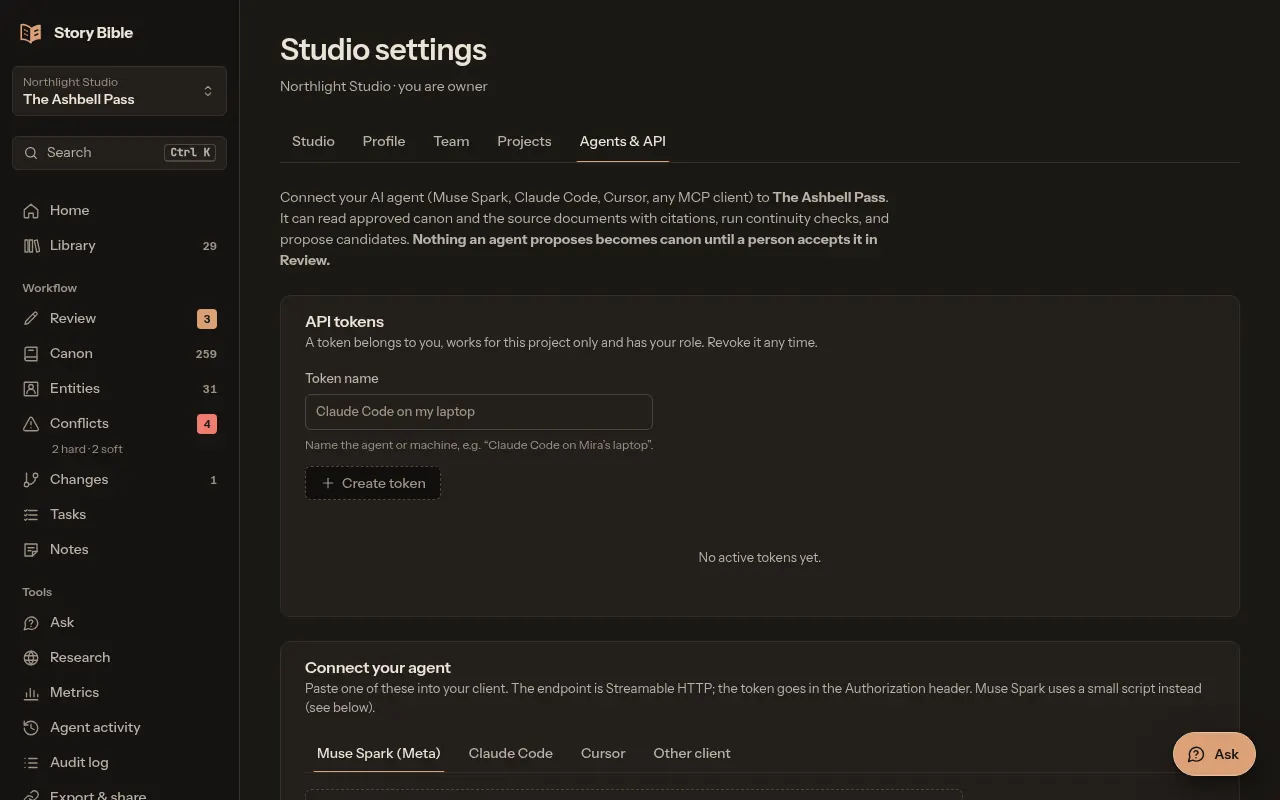
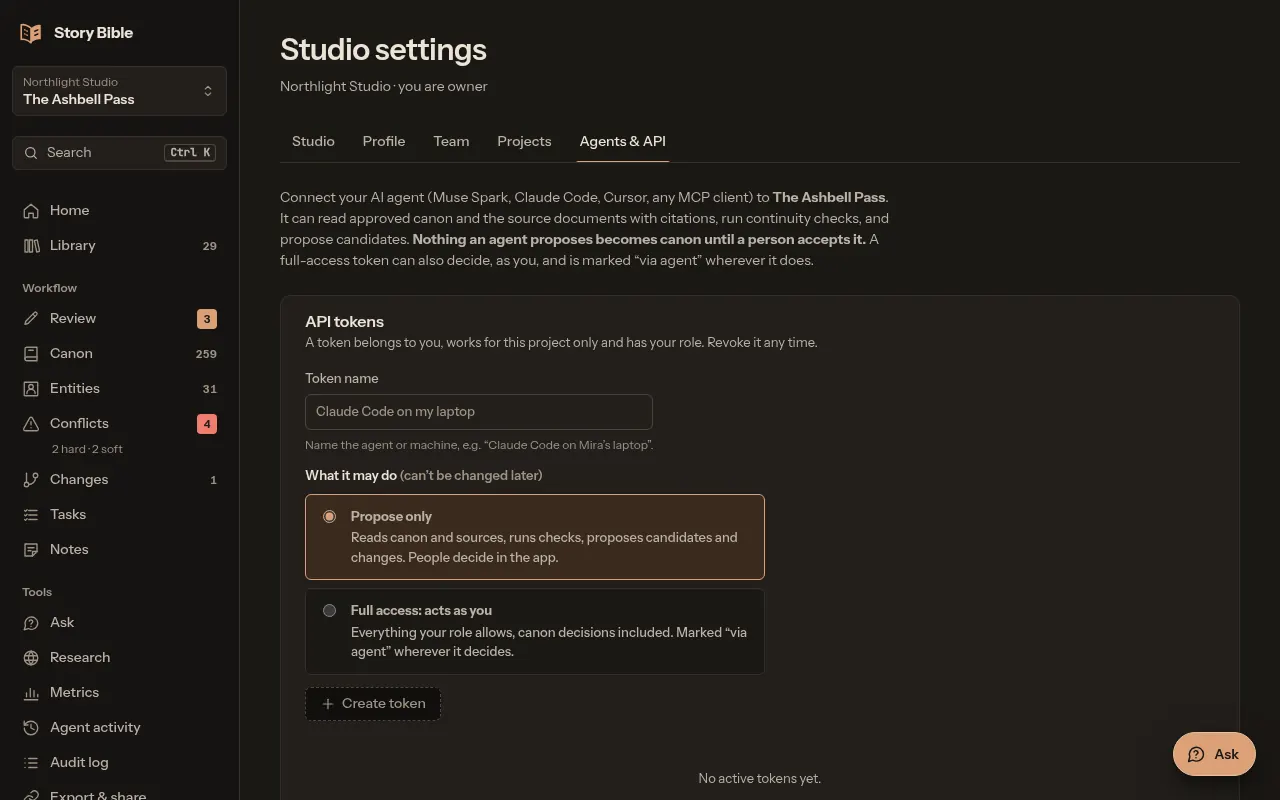
Marketing MCP claims match c68: 38 tools, propose/full token levels, "via agent", what agents can't do
- /agents: 38 tools (16 canon and document tools + 22 area tools with read/propose and full-access actions,
  matching server/utils/mcp-tools.ts and mcp-panel.ts), the two token levels, "via MCP" audit, the exclusions
  (accounts, tokens, team changes and invite links, invite accept, sample load, audio, binary downloads, OAuth)
- Home, games use case and security: propose vs full access, decisions marked "via agent"
- Changelog: 3 Nov MCP parity and AGPL entries; the 2 Nov MCP entry says what it shipped then
- Agents & API screenshot re-taken with the level choice

Claude-Session: https://claude.ai/code/session_018FT5nowQ6S8AfgwKZvpJeF

diff --git a/app/pages/agents/index.vue b/app/pages/agents/index.vue
@@ -13,7 +13,7 @@ const MAY = [
   'Draw portraits and covers when you ask',
 ]
 const NEVER = [
-  'Accept, reject or edit a fact: only a person can',
+  'Accept, reject or edit a fact: a person does, in the app or through their own full-access agent (marked “via agent”)',
   'Make a fact canon without a quote found in its source',
   'Edit an imported document or a transcript',
   'Invent a source, a quote or a canon id; findings that cite one are dropped',
@@ -36,7 +36,40 @@ const TOOLS = [
   ['sb_get_impact', 'The impact of a change proposal'],
   ['sb_list_recheck', 'Citations to re-check after a new version'],
   ['sb_list_tasks', 'Re-review tasks'],
-  ['sb_propose_candidate', 'The only write: a pending candidate with a verbatim quote, for Review'],
+  ['sb_propose_candidate', 'A pending candidate with a verbatim quote, for Review (editors and up)'],
+]
+// One tool per area of the app, with an action; each action has a level (server/utils/mcp-panel.ts).
+const PANEL: [string, string, string, string][] = [
+  ['sb_review', 'Review queue', 'list · add to review · critic', 'add to canon · accept · edit_accept · reject · accept_verified'],
+  ['sb_recheck', 'Citations after a new version', '', 'confirm · keep'],
+  ['sb_change', 'Change proposals and impact', 'list · export · propose · analyze', 'decide · revert'],
+  ['sb_conflict', 'Possible conflicts', 'scan', 'decide · severity'],
+  ['sb_task', 'Re-review tasks', '', 'update'],
+  ['sb_entity', 'Wiki pages', 'merge preview', 'create · update · merge · delete · portrait_set · portrait_remove'],
+  ['sb_project', 'Project settings, research profile, entity types', 'get · types', 'update · type_create · type_update · type_delete'],
+  ['sb_team', 'Studio members', 'list (invite links are never returned)', ''],
+  ['sb_document', 'Import, write and inspect documents', 'history · diff · script · extract', 'import · write · transcribe · script_link'],
+  ['sb_draft', 'Your private drafts', 'list · get', 'create · update · save · delete'],
+  ['sb_note', 'Notes in the margin', 'list', 'create · update'],
+  ['sb_library', 'Folders, tags and labels', 'get', 'folders · tags · organise'],
+  ['sb_images', 'Portraits and covers', 'list', 'upload · generate · apply · remove_cover · caption · delete'],
+  ['sb_continuity', 'Continuity check against canon', 'run · get', ''],
+  ['sb_research', 'Real-world research (never canon)', 'run · list · get · promote', 'pin · unpin'],
+  ['sb_conversation', 'Team conversations in Ask', 'list · read · start · post', 'rename'],
+  ['sb_export', 'The story bible and the manuscript', 'bible (Markdown or JSON)', ''],
+  ['sb_share', 'Read-only share links', 'list', 'create · revoke'],
+  ['sb_audit', 'Audit trail', 'list · export', ''],
+  ['sb_metrics', 'Counts and gold-set measurements', 'stats · eval_runs · eval_run', ''],
+  ['sb_agent_runs', 'AI activity receipts', 'list', ''],
+  ['sb_search', 'Search canon, pages, documents and notes', 'search', ''],
+]
+const EXCLUDED = [
+  'Accounts, studios and API tokens: an agent never creates a token',
+  'Team changes: roles, removals and invites (members can be listed; invite links are never returned)',
+  'Accepting an invite and loading a sample',
+  'Audio uploads and dictation: audio doesn’t fit a tool call',
+  'Binary downloads: portraits, images, audio, original Word files, EPUB and zip',
+  'Sign-in with OAuth: not built yet; agents use a bearer token',
 ]
 const client = ref<'claude' | 'cursor' | 'other'>('claude')
 const SNIPPETS = {
@@ -91,7 +124,7 @@ async function copy() {
 
     <section class="block rules">
       <div>
-        <h2>What the AI may do</h2>
+        <h2>What Story Bible’s AI may do</h2>
         <ul class="may"><li v-for="m in MAY" :key="m">{{ m }}</li></ul>
       </div>
       <div>
@@ -107,10 +140,10 @@ async function copy() {
     <section id="mcp" class="block mcp">
       <div class="mcp-copy">
         <h2>Connect your own agents with MCP</h2>
-        <p>Story Bible is an MCP server (Streamable HTTP). Create a token in Settings, under Agents &amp; API: it acts as you, in one project, with your current role. Tokens are stored as a hash, shown once and can be revoked.</p>
+        <p>Story Bible is an MCP server (Streamable HTTP) with 38 tools: an agent can do through MCP what you do in the app. Create a token in Settings, under Agents &amp; API. It works in one project, as you, within your current role, and is stored as a hash, shown once and revocable.</p>
         <ul>
-          <li>15 read tools for canon, entities, timeline, documents, conflicts, impact and tasks</li>
-          <li>One write: <code>sb_propose_candidate</code>, editors and up, quote checked against the latest version; it lands in Review as an agent proposal</li>
+          <li>Every action goes through the app’s own checks, limits and audit, so an agent can never do more than its person</li>
+          <li>Every action through a token is in the audit log with <i>via MCP</i> and the token’s name</li>
           <li>Prompts: <code>brief-entity</code> and <code>continuity-check-scene</code></li>
           <li>120 tool calls a minute per token; large results are paged</li>
         </ul>
@@ -126,7 +159,25 @@ async function copy() {
     </section>
 
     <section class="block">
+      <h2>Two levels of access</h2>
+      <p class="intro">You pick the level when you create a token. It never changes; to change it, make a new token. A call the token or your role doesn’t allow is refused with a message that says what is needed.</p>
+      <div class="levels">
+        <div class="level">
+          <h3>Propose <span class="tag">default</span></h3>
+          <p>Reads everything, proposes candidates and changes, promotes research notes, and runs the AI checks: extraction, critic, continuity, research, conflict scan and measurements. It can post in Ask like any member. Nothing it does becomes canon.</p>
+        </div>
+        <div class="level full">
+          <h3>Full access <span class="tag">acts as you</span></h3>
+          <p>Everything your role allows, canon decisions included: accept and reject candidates, apply changes, edit pages, notes and the Library. Each decision is shown as “by you via agent” with the token’s name in Review, Canon, Conflicts, Changes and the audit log.</p>
+        </div>
+      </div>
+      <h3 class="excl-h">Not available to agents</h3>
+      <ul class="excl"><li v-for="x in EXCLUDED" :key="x">{{ x }}</li></ul>
+    </section>
+
+    <section class="block">
       <h2>The tools</h2>
+      <h3 class="table-h">Canon and documents: 16 tools</h3>
       <div class="table-wrap">
         <table class="tools">
           <thead><tr><th scope="col">Tool</th><th scope="col">What it returns</th></tr></thead>
@@ -135,11 +186,21 @@ async function copy() {
           </tbody>
         </table>
       </div>
+      <h3 class="table-h">The app, area by area: 22 tools</h3>
+      <p class="small muted">One tool per area, with an <code>action</code>. Read and propose actions work with any token; the last column needs a full-access token, and your role still applies.</p>
+      <div class="table-wrap">
+        <table class="tools panel">
+          <thead><tr><th scope="col">Tool</th><th scope="col">Area</th><th scope="col">Read and propose</th><th scope="col">Full access</th></tr></thead>
+          <tbody>
+            <tr v-for="[name, area, open, full] in PANEL" :key="name"><td><code>{{ name }}</code></td><td>{{ area }}</td><td>{{ open || '—' }}</td><td>{{ full || '—' }}</td></tr>
+          </tbody>
+        </table>
+      </div>
       <p class="small muted">Empty results say “unknown” or “no impact found”. Errors are JSON with a code such as <code>QUOTE_NOT_VERBATIM</code> or <code>RATE_LIMITED</code>.</p>
     </section>
 
     <section class="block">
-      <MarketingFeature :section="{ title: 'Set up in the app', text: 'Settings, Agents & API shows the endpoint and a ready-made config for Muse Spark, Claude Code, Cursor or any other client, with your token filled in.', points: [], shot: { name: 'mcp', alt: 'Settings, Agents & API: create a token and copy a client config.' } }" flip />
+      <MarketingFeature :section="{ title: 'Set up in the app', text: 'Settings, Agents & API: name the token, choose propose or full access, and copy a ready-made config for Muse Spark, Claude Code, Cursor or any other client with the token filled in.', points: ['Each token shows its level and when it was last used', 'Revoke a token at any time'], shot: { name: 'mcp', alt: 'Settings, Agents & API: create a token and copy a client config.' } }" flip />
     </section>
 
     <MarketingCta />
@@ -179,9 +240,19 @@ async function copy() {
 .tools th { font-size: var(--text-sm); color: var(--muted); background: var(--surface); }
 .tools td:first-child { white-space: nowrap; }
 .block > .small { margin-top: var(--s-3); }
+.table-h { font-size: var(--text-md); margin: var(--s-5) 0 var(--s-3); }
+.tools.panel td:nth-child(3), .tools.panel td:nth-child(4) { color: var(--muted); font-size: var(--text-sm); }
+.levels { display: grid; grid-template-columns: 1fr 1fr; gap: var(--s-4); }
+.level { padding: var(--s-5); background: var(--raised); border: 1.5px dashed var(--line-strong); border-radius: var(--r-lg); }
+.level.full { border: 1px solid var(--line); border-left: 4px solid var(--warn); }
+.level h3 { display: flex; align-items: center; gap: var(--s-2); font-size: var(--text-lg); }
+.level p { margin: 0; color: var(--muted); line-height: 1.6; }
+.tag { font-size: var(--text-xs); font-weight: 500; color: var(--muted); padding: 1px 6px; border: 1px solid var(--line-strong); border-radius: var(--r-sm); }
+.excl-h { margin: var(--s-6) 0 var(--s-3); }
+.excl { margin: 0; padding-left: 1.1em; display: grid; gap: var(--s-2); line-height: 1.5; color: var(--muted); max-width: 76ch; }
 
 @media (max-width: 900px) {
-  .agents, .rules, .mcp { grid-template-columns: minmax(0, 1fr); }
+  .agents, .rules, .mcp, .levels { grid-template-columns: minmax(0, 1fr); }
 }
 @media (max-width: 720px) {
   .block { padding-block: var(--s-6); }

diff --git a/app/components/LandingPage.vue b/app/components/LandingPage.vue
@@ -23,7 +23,7 @@ const STEPS = [
 ]
 const HIGHLIGHTS = [PILLARS[0]!.sections[0]!, PILLARS[1]!.sections[0]!, PILLARS[1]!.sections[1]!, PILLARS[3]!.sections[2]!]
 const TRUST = [
-  { title: 'A person decides', text: 'The AI only proposes. Nothing becomes canon until someone accepts it, and their name stays on the decision.' },
+  { title: 'A person decides', text: 'The AI only proposes. Nothing becomes canon until someone accepts it, and their name stays on the decision, with “via agent” when their own agent made it.' },
   { title: 'Word for word', text: 'Every canon fact cites a passage that contains its quote exactly. No quote, no canon; no evidence, “unknown”.' },
   { title: 'Nothing is rewritten', text: 'Imported files stay read-only, old facts are kept when canon changes, and the audit log is append-only.' },
   { title: 'Projects stay apart', text: 'One guard checks membership and role on every request. Viewers read; editors decide; admins manage.' },
@@ -126,7 +126,7 @@ const MCP_SNIPPET = `claude mcp add --transport http story-bible ${SITE}/mcp \\\
         <div class="mcp">
           <div>
             <h3>Bring your own agents through MCP</h3>
-            <p>Story Bible is an MCP server with 16 tools. Agents read canon, timelines and documents, check proposed facts against the conflict rules, and propose candidates that wait in Review.</p>
+            <p>Story Bible is an MCP server with 38 tools, so an agent can do what you do in the app. A propose token reads, checks and proposes; nothing it does becomes canon. A full-access token acts as you, and each decision it makes is marked “via agent” with the token’s name.</p>
             <NuxtLink to="/agents">How agents work with Story Bible</NuxtLink>
           </div>
           <pre class="code" aria-label="Example: connect Claude Code"><code>{{ MCP_SNIPPET }}</code></pre>

diff --git a/app/pages/changelog.vue b/app/pages/changelog.vue
@@ -5,6 +5,8 @@ useMarketingSeo({ title: 'Changelog', description: 'What shipped in Story Bible,
 // Taken from the merge commits on master (git log --merges); one line per shipped change, newest first.
 const DAYS: { date: string, label: string, entries: [string, string][] }[] = [
   { date: '2026-11-03', label: '3 Nov 2026', entries: [
+    ['MCP parity', 'Agents can do through MCP what people do in the app: 38 tools. Tokens are propose-only or full access (acts as you), and decisions made by an agent show “via agent”.'],
+    ['Open source', 'Story Bible is licensed under AGPL-3.0.'],
     ['Plain AI labels', 'The product says “AI” everywhere; which model ran is on Agent activity and Metrics.'],
   ] },
   { date: '2026-11-02', label: '2 Nov 2026', entries: [
@@ -17,7 +19,7 @@ const DAYS: { date: string, label: string, entries: [string, string][] }[] = [
     ['A writer’s palette', 'Linen, paper and walnut ink in light; warm wood in dark.'],
     ['The Ashbell Pass', 'A third sample: a 28-document game story with planted contradictions.'],
     ['For any story world', 'Story Bible now speaks to novelists, game, screen and series writers, and worldbuilders.'],
-    ['MCP and API', '16 grounded MCP tools with paging and limits; every API route answers bad input with 400.'],
+    ['MCP and API', 'MCP grows to 16 grounded read and propose tools with paging and limits; every API route answers bad input with 400.'],
     ['Canon page', 'A paged, filterable list and a readable relationship graph.'],
     ['Version re-check', 'A new version flags only the canon facts whose quote is gone or repeated.'],
     ['Quote matching', 'Quotes match across smart quotes, dashes, Markdown and line breaks; the stored quote keeps the source’s characters.'],

diff --git a/app/pages/security.vue b/app/pages/security.vue
@@ -8,7 +8,8 @@ const GROUPS = [
     items: [
       'The AI only creates candidates. A fact becomes canon only through an explicit decision by a person, recorded with their name.',
       'Bulk accept works on the list you can see: if a candidate changed since you loaded it, it is skipped.',
-      'Agents connected through MCP can only propose. Their proposals are marked as agent proposals in Review.',
+      'Agents connected through MCP use a token with a level fixed at creation. Propose (the default) reads, proposes and runs AI checks; nothing it does becomes canon. Full access acts as its owner within their role, and every decision it makes is shown as “via agent” with the token’s name.',
+      'An agent can never create a token, change the team or see invite links, and goes through the same checks and limits as the app.',
     ],
   },
   {
@@ -40,7 +41,7 @@ const GROUPS = [
   {
     title: 'Audit trail',
     items: [
-      'Imports, decisions, merges, changes, exports, share links and agent proposals are written to an append-only audit log with who and when.',
+      'Imports, decisions, merges, changes, exports, share links and agent proposals are written to an append-only audit log with who and when. Anything done through an agent token also records that token.',
       'Every AI call is recorded with its model, prompt version, input reference and result, and shown on Agent activity.',
       'Users are never deleted, so names on past decisions survive a member leaving.',
     ],

diff --git a/app/utils/marketing.ts b/app/utils/marketing.ts
@@ -197,7 +197,7 @@ export const USE_CASES: UseCase[] = [
       { title: 'One canon for the whole team', text: 'Lore docs, quest scripts and dialogue in one Library. Entity types for NPCs, items, abilities and quests.' },
       { title: 'Check the recording against the script', text: 'Upload a voice take, link its script, and see changed lines and lines that contradict canon.' },
       { title: 'Change a world rule safely', text: 'Change the bell rule and see the four scenes to re-review, with re-review tasks for the team.' },
-      { title: 'Let your tools read canon', text: 'Give an agent or a pipeline read access through MCP. Anything it proposes waits in Review.' },
+      { title: 'Let your tools work with canon', text: 'Give an agent or a pipeline a token through MCP. A propose token’s proposals wait in Review; a full-access token acts as you, marked “via agent”.' },
     ],
     shots: [
       { name: 'voice', alt: 'Script vs recording for a town crier’s take, one line contradicting canon.' },
